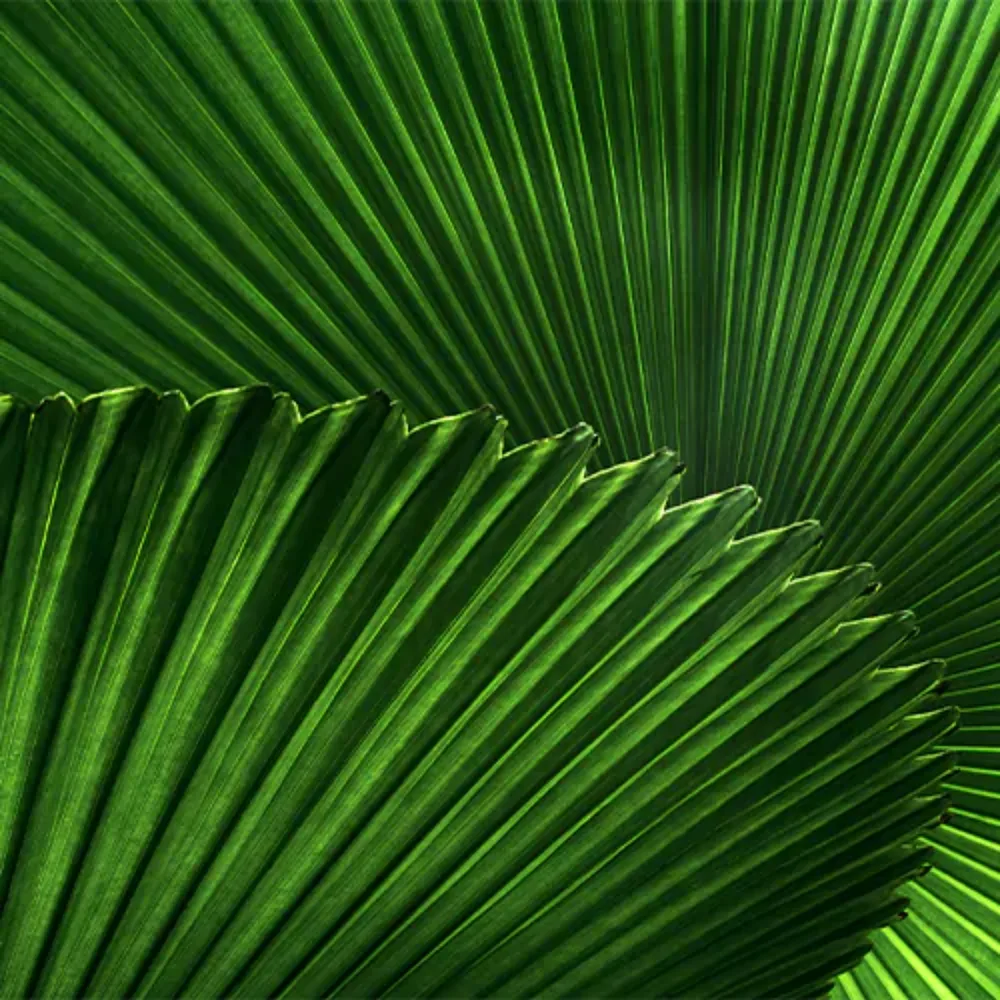
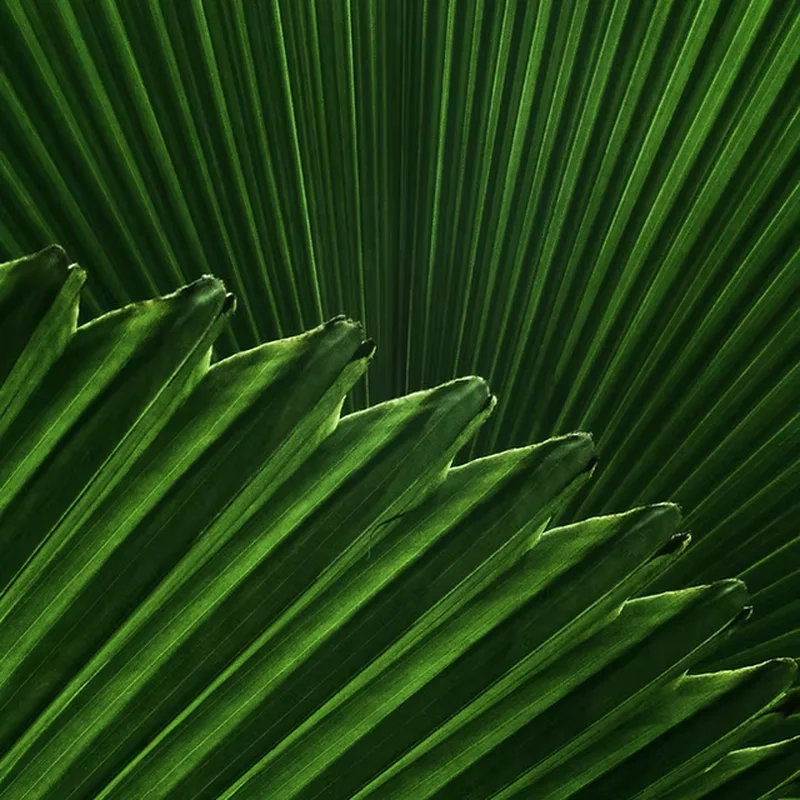
Flora: all 19 plant photos from the Doc, hosted locally

diff --git a/brief/the-flora.html b/brief/the-flora.html
@@ -28,7 +28,7 @@
         <div class="flora-grid">
           <div class="flora-card">
             <div class="flora-card__media">
-              <div class="flora-card__img flora-card__img--plant flora-card__img--tocome is-on" data-plant></div>
+              <div class="flora-card__img flora-card__img--plant is-on" style="background-image:url('../assets/img/flora/areca-palm-plant.webp')" data-plant></div>
               <div class="flora-card__img flora-card__img--styled" style="background-image:url('https://i.pinimg.com/736x/bc/e8/9a/bce89ae7b6b9d1383582b3ac30683a9a.jpg')" data-styled></div>
               <div class="flora-card__toggle">
                 <button class="flora-card__tab is-on" data-show="plant">Plant</button>
@@ -43,7 +43,7 @@
           </div>
           <div class="flora-card">
             <div class="flora-card__media">
-              <div class="flora-card__img flora-card__img--plant flora-card__img--tocome is-on" data-plant></div>
+              <div class="flora-card__img flora-card__img--plant is-on" style="background-image:url('../assets/img/flora/hibiscus-plant.webp')" data-plant></div>
               <div class="flora-card__img flora-card__img--styled" style="background-image:url('https://i.pinimg.com/736x/94/6c/31/946c316884cb9b8061821ae43d47175a.jpg')" data-styled></div>
               <div class="flora-card__toggle">
                 <button class="flora-card__tab is-on" data-show="plant">Plant</button>
@@ -58,7 +58,7 @@
           </div>
           <div class="flora-card">
             <div class="flora-card__media">
-              <div class="flora-card__img flora-card__img--plant flora-card__img--tocome is-on" data-plant></div>
+              <div class="flora-card__img flora-card__img--plant is-on" style="background-image:url('../assets/img/flora/monstera-plant.webp')" data-plant></div>
               <div class="flora-card__img flora-card__img--styled" style="background-image:url('https://i.pinimg.com/736x/bd/4e/9b/bd4e9bcdfa32363e053d832328d29e00.jpg')" data-styled></div>
               <div class="flora-card__toggle">
                 <button class="flora-card__tab is-on" data-show="plant">Plant</button>
@@ -73,7 +73,7 @@
           </div>
           <div class="flora-card">
             <div class="flora-card__media">
-              <div class="flora-card__img flora-card__img--plant flora-card__img--tocome is-on" data-plant></div>
+              <div class="flora-card__img flora-card__img--plant is-on" style="background-image:url('../assets/img/flora/beehive-ginger-plant.webp')" data-plant></div>
               <div class="flora-card__img flora-card__img--styled" style="background-image:url('https://paikobotanicals.com/cdn/shop/files/1-05.jpg?v=1688727720')" data-styled></div>
               <div class="flora-card__toggle">
                 <button class="flora-card__tab is-on" data-show="plant">Plant</button>
@@ -103,7 +103,7 @@
           </div>
           <div class="flora-card">
             <div class="flora-card__media">
-              <div class="flora-card__img flora-card__img--plant flora-card__img--tocome is-on" data-plant></div>
+              <div class="flora-card__img flora-card__img--plant is-on" style="background-image:url('../assets/img/flora/heliconia-plant.webp')" data-plant></div>
               <div class="flora-card__img flora-card__img--styled" style="background-image:url('https://i.pinimg.com/1200x/e2/97/d8/e297d86bca9e8577d6309247a64b0e61.jpg')" data-styled></div>
               <div class="flora-card__toggle">
                 <button class="flora-card__tab is-on" data-show="plant">Plant</button>
@@ -118,7 +118,7 @@
           </div>
           <div class="flora-card">
             <div class="flora-card__media">
-              <div class="flora-card__img flora-card__img--plant flora-card__img--tocome is-on" data-plant></div>
+              <div class="flora-card__img flora-card__img--plant is-on" style="background-image:url('../assets/img/flora/banana-leaf-plant.webp')" data-plant></div>
               <div class="flora-card__img flora-card__img--styled" style="background-image:url('https://i.pinimg.com/1200x/b7/bd/66/b7bd66ed92b84942fa9033b443cb190e.jpg')" data-styled></div>
               <div class="flora-card__toggle">
                 <button class="flora-card__tab is-on" data-show="plant">Plant</button>
@@ -133,7 +133,7 @@
           </div>
           <div class="flora-card">
             <div class="flora-card__media">
-              <div class="flora-card__img flora-card__img--plant flora-card__img--tocome is-on" data-plant></div>
+              <div class="flora-card__img flora-card__img--plant is-on" style="background-image:url('../assets/img/flora/pincushion-protea-plant.webp')" data-plant></div>
               <div class="flora-card__img flora-card__img--styled" style="background-image:url('https://i.pinimg.com/1200x/4f/af/8e/4faf8e1b7e03646c7552954ec82df805.jpg')" data-styled></div>
               <div class="flora-card__toggle">
                 <button class="flora-card__tab is-on" data-show="plant">Plant</button>
@@ -152,7 +152,7 @@
         <div class="flora-grid">
           <div class="flora-card">
             <div class="flora-card__media">
-              <div class="flora-card__img flora-card__img--plant flora-card__img--tocome is-on" data-plant></div>
+              <div class="flora-card__img flora-card__img--plant is-on" style="background-image:url('../assets/img/flora/green-amaranthus-plant.webp')" data-plant></div>
               <div class="flora-card__img flora-card__img--styled" style="background-image:url('https://i.pinimg.com/1200x/ba/d4/b7/bad4b7490cc9afd3f1f0c2db06eaad5b.jpg')" data-styled></div>
               <div class="flora-card__toggle">
                 <button class="flora-card__tab is-on" data-show="plant">Plant</button>
@@ -167,7 +167,7 @@
           </div>
           <div class="flora-card">
             <div class="flora-card__media">
-              <div class="flora-card__img flora-card__img--plant flora-card__img--tocome is-on" data-plant></div>
+              <div class="flora-card__img flora-card__img--plant is-on" style="background-image:url('../assets/img/flora/bird-of-paradise-plant.webp')" data-plant></div>
               <div class="flora-card__img flora-card__img--styled" style="background-image:url('https://asset.bloomnation.com/c_pad,d_vendor:global:catalog:product:image.png,f_auto,fl_preserve_transparency,q_auto,w_1400/v1778469938/vendor/3965/catalog/product/2/0/20220603050023_file_62999567cecdb_629995b18d051.png')" data-styled></div>
               <div class="flora-card__toggle">
                 <button class="flora-card__tab is-on" data-show="plant">Plant</button>
@@ -182,7 +182,7 @@
           </div>
           <div class="flora-card">
             <div class="flora-card__media">
-              <div class="flora-card__img flora-card__img--plant flora-card__img--tocome is-on" data-plant></div>
+              <div class="flora-card__img flora-card__img--plant is-on" style="background-image:url('../assets/img/flora/sword-fern-plant.webp')" data-plant></div>
               <div class="flora-card__img flora-card__img--styled" style="background-image:url('https://i.pinimg.com/1200x/7e/7a/34/7e7a3440dafd44c06581502907180a17.jpg')" data-styled></div>
               <div class="flora-card__toggle">
                 <button class="flora-card__tab is-on" data-show="plant">Plant</button>
@@ -197,7 +197,7 @@
           </div>
           <div class="flora-card">
             <div class="flora-card__media">
-              <div class="flora-card__img flora-card__img--plant flora-card__img--tocome is-on" data-plant></div>
+              <div class="flora-card__img flora-card__img--plant is-on" style="background-image:url('../assets/img/flora/leucadendron-plant.webp')" data-plant></div>
               <div class="flora-card__img flora-card__img--styled" style="background-image:url('https://image.floranext.com/instances/societeflowers_com/catalog/product/l/e/lemon_haze_2021_1.jpg.webp?h=800&w=800&r=255&g=255&b=255')" data-styled></div>
               <div class="flora-card__toggle">
                 <button class="flora-card__tab is-on" data-show="plant">Plant</button>
@@ -212,7 +212,7 @@
           </div>
           <div class="flora-card">
             <div class="flora-card__media">
-              <div class="flora-card__img flora-card__img--plant flora-card__img--tocome is-on" data-plant></div>
+              <div class="flora-card__img flora-card__img--plant is-on" style="background-image:url('../assets/img/flora/celosia-plant.webp')" data-plant></div>
               <div class="flora-card__img flora-card__img--styled" style="background-image:url('https://www.flowersbyspecialarrangement.com/cdn/shop/files/yellow-celosia-calla-lilies-freesia-913382.png?v=1742235852&width=1646')" data-styled></div>
               <div class="flora-card__toggle">
                 <button class="flora-card__tab is-on" data-show="plant">Plant</button>
@@ -227,7 +227,7 @@
           </div>
           <div class="flora-card">
             <div class="flora-card__media">
-              <div class="flora-card__img flora-card__img--plant flora-card__img--tocome is-on" data-plant></div>
+              <div class="flora-card__img flora-card__img--plant is-on" style="background-image:url('../assets/img/flora/ti-plant-plant.webp')" data-plant></div>
               <div class="flora-card__img flora-card__img--styled" style="background-image:url('https://i.pinimg.com/1200x/4c/5f/76/4c5f76e46bbd5b4e8ee1a6ee52c0b611.jpg')" data-styled></div>
               <div class="flora-card__toggle">
                 <button class="flora-card__tab is-on" data-show="plant">Plant</button>
@@ -242,7 +242,7 @@
           </div>
           <div class="flora-card">
             <div class="flora-card__media">
-              <div class="flora-card__img flora-card__img--plant flora-card__img--tocome is-on" data-plant></div>
+              <div class="flora-card__img flora-card__img--plant is-on" style="background-image:url('../assets/img/flora/anthurium-plant.webp')" data-plant></div>
               <div class="flora-card__img flora-card__img--styled" style="background-image:url('https://i.pinimg.com/736x/28/d0/62/28d062198d43e427890d804ff2e7fd10.jpg')" data-styled></div>
               <div class="flora-card__toggle">
                 <button class="flora-card__tab is-on" data-show="plant">Plant</button>
@@ -261,7 +261,7 @@
         <div class="flora-grid">
           <div class="flora-card">
             <div class="flora-card__media">
-              <div class="flora-card__img flora-card__img--plant flora-card__img--tocome is-on" data-plant></div>
+              <div class="flora-card__img flora-card__img--plant is-on" style="background-image:url('../assets/img/flora/gloriosa-lily-plant.webp')" data-plant></div>
               <div class="flora-card__img flora-card__img--styled" style="background-image:url('https://static.squarespace.com/static/531386c5e4b06c7ef09c11c1/53bb2dc5e4b01e826709450f/53bb2e55e4b01e8267095ded/1404776021409/201204181462.jpg?format=original')" data-styled></div>
               <div class="flora-card__toggle">
                 <button class="flora-card__tab is-on" data-show="plant">Plant</button>
@@ -276,7 +276,7 @@
           </div>
           <div class="flora-card">
             <div class="flora-card__media">
-              <div class="flora-card__img flora-card__img--plant flora-card__img--tocome is-on" data-plant></div>
+              <div class="flora-card__img flora-card__img--plant is-on" style="background-image:url('../assets/img/flora/spanish-moss-plant.webp')" data-plant></div>
               <div class="flora-card__img flora-card__img--styled" style="background-image:url('https://www.hartfloraldesign.com/wp-content/uploads/2024/02/Kylie-Kyle-Wedding-Smith-James-Events-Parker-Palm-Springs-3225-1.jpg')" data-styled></div>
               <div class="flora-card__toggle">
                 <button class="flora-card__tab is-on" data-show="plant">Plant</button>
@@ -291,7 +291,7 @@
           </div>
           <div class="flora-card">
             <div class="flora-card__media">
-              <div class="flora-card__img flora-card__img--plant flora-card__img--tocome is-on" data-plant></div>
+              <div class="flora-card__img flora-card__img--plant is-on" style="background-image:url('../assets/img/flora/mokara-orchid-plant.webp')" data-plant></div>
               <div class="flora-card__img flora-card__img--styled" style="background-image:url('https://i.pinimg.com/1200x/fe/26/30/fe2630f778f7013a246ad31105111f92.jpg')" data-styled></div>
               <div class="flora-card__toggle">
                 <button class="flora-card__tab is-on" data-show="plant">Plant</button>
@@ -306,7 +306,7 @@
           </div>
           <div class="flora-card">
             <div class="flora-card__media">
-              <div class="flora-card__img flora-card__img--plant flora-card__img--tocome is-on" data-plant></div>
+              <div class="flora-card__img flora-card__img--plant is-on" style="background-image:url('../assets/img/flora/plumeria-plant.webp')" data-plant></div>
               <div class="flora-card__img flora-card__img--styled" style="background-image:url('https://www.petalrepublic.com/wp-content/uploads/2025/03/Yellow-Wedding-Bouquet-61-683x1024.jpg')" data-styled></div>
               <div class="flora-card__toggle">
                 <button class="flora-card__tab is-on" data-show="plant">Plant</button>
